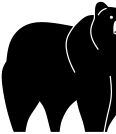
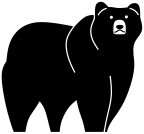
Fix beartype bear: full silhouette (no cut-off), smaller inline size

Changed region(s): [[0.0, 0.0, 1.0, 0.9851]]

diff --git a/docs/index.md b/docs/index.md
@@ -121,9 +121,9 @@ body { background: transparent !important; }
 }
 
 .beartype-logo-inline {
-  height: 0.9em;
+  height: 0.7em;
   width: auto;
-  vertical-align: -0.1em;
+  vertical-align: -0.05em;
   margin-right: 0.1em;
   opacity: 0.4;
   filter: grayscale(100%) brightness(0.5);